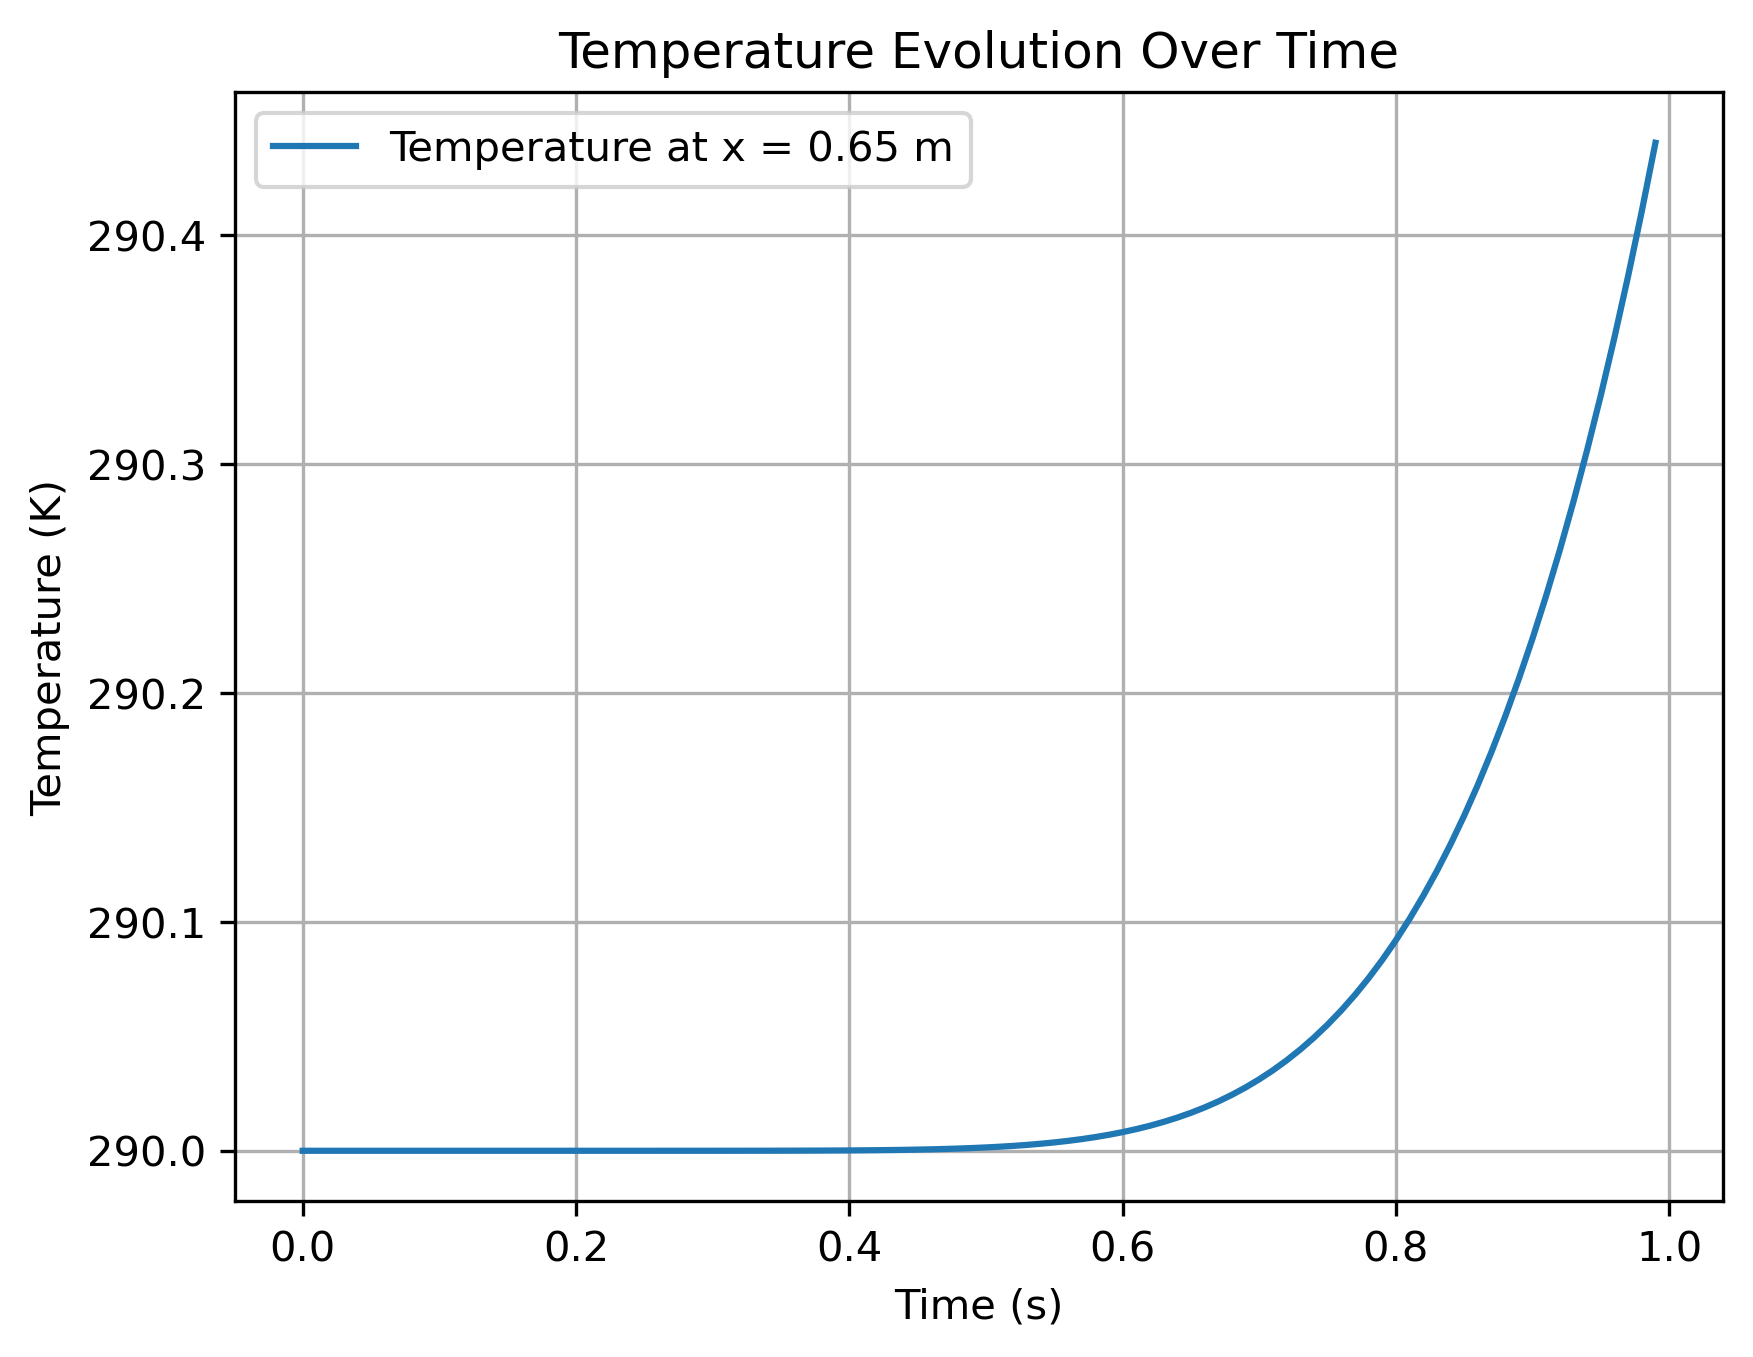
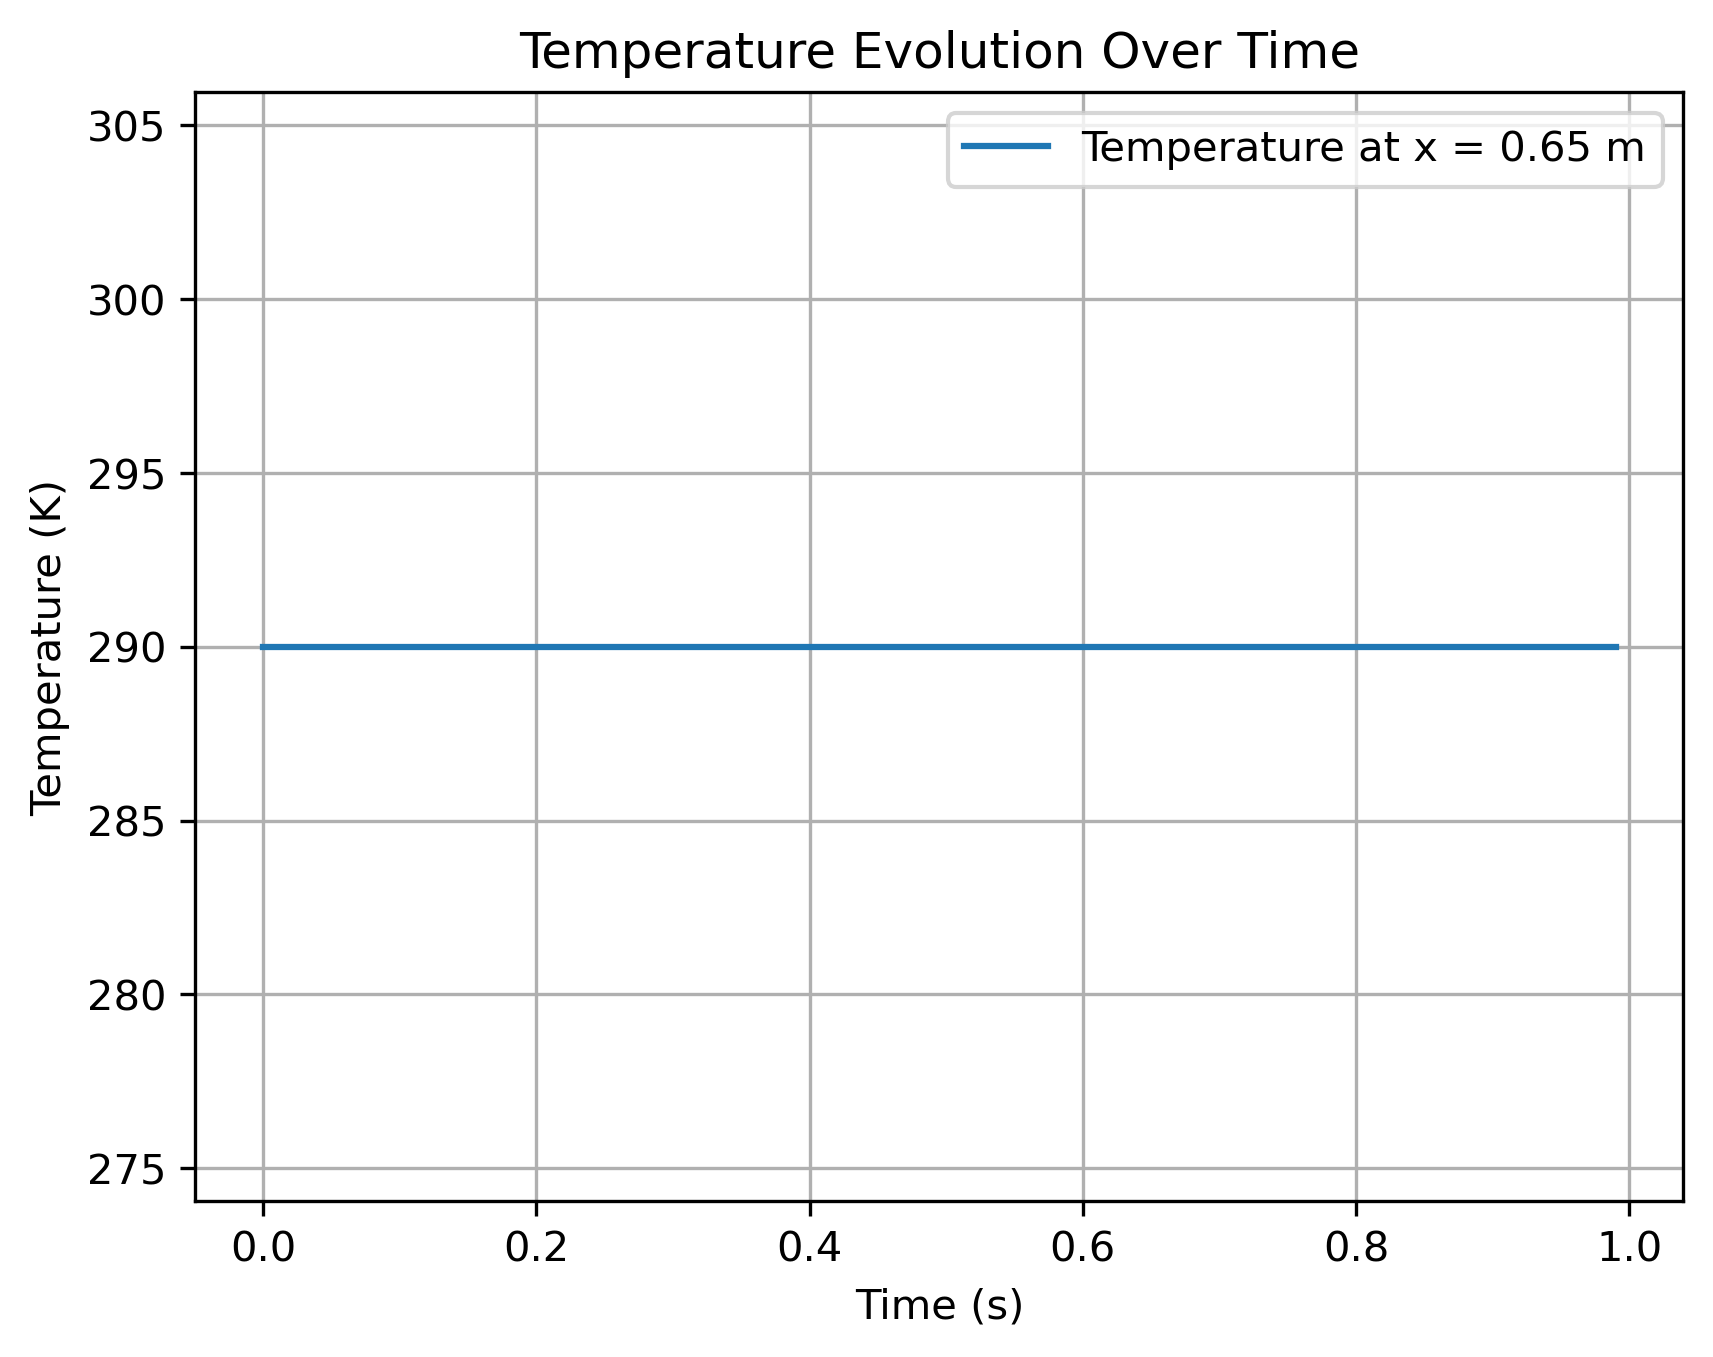
Cleanup, Celltypes work now

diff --git a/src/2d/main.py b/src/2d/main.py
@@ -21,10 +21,10 @@ logger = logging.getLogger(__name__)
 from mesh import generate_mesh_2d, generate_composite_mesh
 from params import get_all_params, get_param_group
 from utils import preview_mesh, preview_face_mask, save_animation, init_tripcolor_viewer
-# from k_eff import getKEff 
-# from sodium_properties import get_sodium_properties
-# from postprocess import save_results, plot_results
+from sodium_properties import get_sodium_properties
 
+from fipy import __version__ as fipy_version
+logger.info(f"Using FiPy version: {fipy_version}")
 
 # ----------------------------------------
 # Load parameters from configuration file
@@ -37,13 +37,44 @@ dimensions = get_param_group('dimensions')
 L_total = params['L_e'] + params['L_a'] + params['L_c']
 R_total = params['R_wall'] + params['R_wick'] + params['R_vc']
 
+logger.info("Parameters Loaded")
+
+# ----------------------------------------
+# Load sodium properties
+# ----------------------------------------
+
+sodium_properties = get_sodium_properties()
+
+logger.info("Sodium Properties Loaded")
+
+# ----------------------------------------
+# Define material properties
+# ----------------------------------------
+
+T_working = 800  # Example working temperature in Kelvin
+
+rho_vc = sodium_properties['density'](T_working)
+c_p_vc = sodium_properties['specific_heat'](T_working)
+k_vc = sodium_properties['thermal_conductivity'](T_working)
+
+rho_wick = params['porosity'] * rho_vc + (1 - params['porosity']) * params['rho_wall']
+c_p_wick = params['porosity'] * c_p_vc + (1 - params['porosity']) * params['c_p_wall']
+k_wick = params['porosity'] * k_vc + (1 - params['porosity']) * params['k_wall']
+
+rho_wall = params['rho_wall']
+c_p_wall = params['c_p_wall']
+k_wall = params['k_wall']
+
 # ----------------------------------------
 # Generate the 2D mesh
 # ----------------------------------------
 
-mesh, cell_types = generate_composite_mesh(mesh_params, dimensions)
+mesh, cell_types = generate_composite_mesh(mesh_params, dimensions) 
+# Cell types: 0 = vapor core, 1 = wick, 2 = wall
 
-# preview the mesh (optional)
+logger.info("Mesh Generated")
+logger.info(f"Mesh shape: {mesh.shape}")
+
 # preview_mesh(mesh, title="2D Mesh Preview")
 
 # ----------------------------------------
@@ -53,17 +84,27 @@ mesh, cell_types = generate_composite_mesh(mesh_params, dimensions)
 T = CellVariable(name="Temperature", mesh=mesh, value=params["T_amb"])
 
 # ----------------------------------------
-# Define the effective thermal conductivity variable (will do later, now use constant k)
+# Define the spatially varying D coefficient 
 # ----------------------------------------
-# k = params["k"] # Constant thermal conductivity for now
-# getKEff(T, params) returns a FiPy-compatible array (or CellVariable value)
-# k_eff = CellVariable(name="Effective Thermal Conductivity", mesh=mesh, value=getKEff(T, params))
+
+# Create region masks from the cell_types variable
+is_vc   = (cell_types == 0)  # Vapor core
+is_wick = (cell_types == 1)  # Wick
+is_wall = (cell_types == 2)  # Wall
+
+# Compute region-specific thermal diffusivity alpha = k / (rho * c_p)
+alpha_vc   = k_vc / (rho_vc * c_p_vc)
+alpha_wick = k_wick / (rho_wick * c_p_wick)
+alpha_wall = k_wall / (rho_wall * c_p_wall)
+
+# Construct the spatially varying coefficient D
+D = alpha_vc * is_vc + alpha_wick * is_wick + alpha_wall * is_wall
 
 # ----------------------------------------
 # Define the PDE
 # ----------------------------------------
 
-eq = TransientTerm() == DiffusionTerm(coeff=1e-3)
+eq = TransientTerm(var=T) == DiffusionTerm(coeff=D, var=T)
 
 # ----------------------------------------
 # Apply boundary conditions
@@ -73,27 +114,29 @@ X, Y = mesh.faceCenters
 faces_evaporator = (mesh.facesTop & (X < params['L_e']))
 faces_condenser = (mesh.facesTop & ((X > params['L_e'] + params['L_a']) & (X < L_total)))
 
-# Mask previewing (optional)
 # preview_face_mask(mesh, faces_evaporator, title="Evaporator Face Mask")
 # preview_face_mask(mesh, faces_condenser, title="Condenser Face Mask")
 
 n = mesh.faceNormals
-T.faceGrad.constrain(params['Q_input_flux']/params['k_wall'] * n, where=faces_evaporator)  # dT/dy = q_e/k_w (condenser heat input)
 
-T_rad = FaceVariable(mesh=mesh, value=T.faceValue)  # Radiative temperature at the faces
-q_rad = params['sigma'] * params['emissivity'] * (T_rad**4 - params['T_amb']**4)  # Radiative heat flux (W/m^2)
-T.faceGrad.constrain(-q_rad / params['k_wall'] * n, where=faces_condenser)  # dT/dy = -q_rad/k_w
+# dT/dy = q_e/k_w (condenser heat input)
+T.faceGrad.constrain(params['Q_input_flux']/params['k_wall'] * n, where=faces_evaporator)
+
+# dT/dy = -q_rad/k_w
+T_rad = FaceVariable(mesh=mesh, value=T.faceValue) # Radiative temperature at the faces
+q_rad = params['sigma'] * params['emissivity'] * (T_rad**4 - params['T_amb']**4) # Radiative heat flux (W/m^2)
+T.faceGrad.constrain(-q_rad / params['k_wall'] * n, where=faces_condenser)
 
 # ----------------------------------------
 # Initialize viewer
 # ----------------------------------------
 
 if __name__ == '__main__':
-    viewer = Viewer(vars=T)
-    viewer.plot()
+    # viewer = Viewer(vars=T)
+    # viewer.plot()
 
     # Matplotlib tripcolor viewer:
-    # fig, ax, tpc, triang = init_tripcolor_viewer(mesh)
+    fig, ax, tpc, triang = init_tripcolor_viewer(mesh)
 
 # ----------------------------------------
 # Time-stepping loop
@@ -124,16 +167,16 @@ for step in range(steps):
             try:
                 # Mayavi visualization:
                 
-                viewer.plot()
+                # viewer.plot()
                 
                 # Uncomment to save frames (Mayavi)
                 # viewer.plot(f"frames/frame_{step:04d}.png")
 
                 # Matplotlib.tripcolor visualization:
-                # tpc.set_array(T.value)
-                # tpc.set_clim(vmin=T.value.min(), vmax=T.value.max())
-                # ax.set_title(f"Step {step+1}, t = {step * time_step:.2f} s")
-                # plt.pause(0.003)  # Non-blocking draw
+                tpc.set_array(T.value)
+                tpc.set_clim(vmin=T.value.min(), vmax=T.value.max())
+                ax.set_title(f"Step {step+1}, t = {step * time_step:.2f} s")
+                plt.pause(0.003)  # Non-blocking draw
             except Exception as e:
                 logger.warning(f"Error during visualization: {e}")
     except Exception as e:
@@ -141,7 +184,7 @@ for step in range(steps):
         break
 
 # Matplotlib.tripcolor visualization:
-# plt.close(fig)
+plt.close(fig)
 
 # uncomment to save frames (Mayavi)
 # save_animation("frames", "output.mp4", fps=10)

diff --git a/src/2d/mesh.py b/src/2d/mesh.py
@@ -39,10 +39,32 @@ from fipy import CellVariable
 from fipy.meshes.nonUniformGrid2D import NonUniformGrid2D
 import numpy as np
 
-def generate_composite_mesh(mesh_params, dimensions):
+def generate_composite_mesh(mesh_params: dict, dimensions: dict) -> tuple[NonUniformGrid2D, CellVariable]:
     """
-    Generate a composite FiPy mesh for a cylindrical heat pipe
-    with variable radial resolution (vapor core, wick, wall).
+    Generate a composite FiPy mesh for a cylindrical heat pipe with variable radial resolution.
+    The mesh consists of three regions: vapor core (vc), wick, and wall, each with its own radial resolution.
+
+    Parameters:
+        mesh_params (dict): Dictionary containing mesh parameters:
+            - "nx_wall" (int): Number of cells in the axial (x) direction for the wall region.
+            - "nr_wall" (int): Number of cells in the radial (y) direction for the wall region.
+            - "nx_wick" (int): Number of cells in the axial (x) direction for the wick region.
+            - "nr_wick" (int): Number of cells in the radial (y) direction for the wick region.
+            - "nx_vc" (int): Number of cells in the axial (x) direction for the vapor core region.
+            - "nr_vc" (int): Number of cells in the radial (y) direction for the vapor core region.
+
+        dimensions (dict): Dictionary containing geometric dimensions (all in meters):
+            - "R_wall" (float): Outer radius of the wall region.
+            - "R_wick" (float): Outer radius of the wick region.
+            - "R_vc" (float): Outer radius of the vapor core region.
+            - "L_e" (float): Length of the evaporator section.
+            - "L_a" (float): Length of the adiabatic section.
+            - "L_c" (float): Length of the condenser section.
+
+    Returns:
+        tuple: A tuple containing:
+            - mesh (NonUniformGrid2D): A FiPy NonUniformGrid2D mesh representing the composite geometry.
+            - cell_var (CellVariable): A FiPy CellVariable indicating the cell types (0 for vapor core, 1 for wick, 2 for wall).
     """
     # Unpack parameters
     nx = mesh_params["nx_wall"]
@@ -86,17 +108,19 @@ def generate_composite_mesh(mesh_params, dimensions):
     # Create non-uniform grid
     mesh = NonUniformGrid2D(dx=dx_array, dy=dy_array, nx=nx, ny=sum(nr.values()))
 
-    # Assign cell types
-    ny = sum(nr.values())
+    # Assign cell types based on cell centers' spatial coordinates
     cell_types = np.zeros(mesh.numberOfCells, dtype=int)
-    split1 = nr["vc"]
-    split2 = split1 + nr["wick"]
-
-    for i in range(nx):
-        base = i * ny
-        cell_types[base + split1:base + split2] = 1  # wick
-        cell_types[base + split2:base + ny] = 2      # wall
-
+    x, y = mesh.cellCenters  # Get coordinates of cell centers
+    
+    # Use y-coordinate to determine region
+    vc_mask = (y <= R["vc"])
+    wick_mask = (y > R["vc"]) & (y <= R["wick"])
+    wall_mask = (y > R["wick"])
+    
+    # Assign cell types based on region
+    cell_types[wick_mask] = 1  # wick
+    cell_types[wall_mask] = 2  # wall
+    
     cell_var = CellVariable(name="Cell Types", mesh=mesh, value=cell_types)
 
     return mesh, cell_var
@@ -129,13 +153,9 @@ if __name__ == '__main__':
     print(" - Number of x cells:", mesh.numberOfCells // (mesh_params["nr_vc"] + mesh_params["nr_wick"] + mesh_params["nr_wall"]))
     print(" - Total number of cells:", mesh.numberOfCells)
 
-    # Visualize the mesh
+    # Visualize the mesh using the standard preview
     import matplotlib.pyplot as plt
-
-    # Extract the coordinates of the cell centers
     x, y = mesh.cellCenters
-
-    # Plot the mesh
     plt.figure(figsize=(10, 5))
     plt.scatter(x, y, marker='o', color='b', s=10)
     plt.title('2D Cartesian Mesh')
@@ -144,3 +164,7 @@ if __name__ == '__main__':
     plt.grid(True)
     plt.axis('equal')
     plt.show()
+    
+    # Visualize the different regions using the preview_cell_types function
+    from utils import preview_cell_types
+    preview_cell_types(mesh, cell_types, title="Heat Pipe Regions Visualization")

diff --git a/src/2d/utils.py b/src/2d/utils.py
@@ -69,11 +69,52 @@ def preview_face_mask(mesh, mask, title="Mesh with Face Masks"):
     plt.legend()
     plt.show()
 
+
+def preview_cell_types(mesh, cell_types, title="Heat Pipe Regions"):
+    """
+    Visualizes the different regions of a heat pipe based on cell types.
+
+    Parameters:
+        mesh: The FiPy mesh object.
+        cell_types: CellVariable containing region markers (0 for vapor core, 1 for wick, 2 for wall).
+        title (str): Title of the plot.
+    """
+    import matplotlib.pyplot as plt
+    import numpy as np
+    
+    # Extract cell centers
+    x, y = mesh.cellCenters
+    
+    # Get cell type values
+    values = cell_types.value
+    
+    # Create figure
+    plt.figure(figsize=(10, 5))
+    
+    # Create a scatter plot with different colors for each region
+    # Using a custom colormap appropriate for distinct regions
+    regions = ['Vapor Core', 'Wick', 'Wall']
+    colors = ['lightblue', 'orange', 'gray']
+    
+    # Plot each region separately for better control and legend
+    for i, (region, color) in enumerate(zip(regions, colors)):
+        mask = (values == i)
+        plt.scatter(x[mask], y[mask], marker='o', color=color, s=10, label=region)
+    
+    plt.title(title)
+    plt.xlabel('x [m]')
+    plt.ylabel('y [m]')
+    plt.grid(True)
+    plt.axis('equal')
+    plt.legend()
+    plt.show()
+
+
 def init_tripcolor_viewer(mesh):
     import matplotlib.pyplot as plt
     import matplotlib.tri as tri
     import numpy as np
-    
+
     x = mesh.cellCenters[0]
     y = mesh.cellCenters[1]
     triang = tri.Triangulation(x, y)

diff --git a/src/2d/sodium_properties.py b/src/2d/sodium_properties.py
@@ -169,7 +169,14 @@ def get_sodium_properties(state: str = 'vapor'):
         state: 'liquid' or 'vapor' to specify the state of sodium
         
     Returns:
-        Dictionary of interpolation functions for sodium properties
+        Dictionary of interpolation functions for sodium properties:
+        density - Density (kg/m³)
+        specific_heat - Specific heat (J/kg-K)
+        vapor_pressure - Vapor pressure (Pa)
+        viscosity - Dynamic viscosity (Pa-s)
+        heat_of_vaporization - Heat of vaporization (J/kg)
+        enthalpy - Enthalpy (J/kg)
+        thermal_conductivity - Thermal conductivity (W/m-K)
     """
     return {
         "density": get_density(state),

diff --git a/src/2d/params.py b/src/2d/params.py
@@ -30,7 +30,7 @@ def load_params(config_file=None):
     if config_file is None:
         config_file = os.path.join(
             os.path.dirname(os.path.dirname(os.path.dirname(__file__))),
-            'config', 'heat_pipe_config.json'
+            'config', 'faghri.json'
         )
     
     # Read the configuration file
@@ -83,7 +83,7 @@ def get_param_group(group_name):
         
     config_file = os.path.join(
         os.path.dirname(os.path.dirname(os.path.dirname(__file__))),
-        'config', 'heat_pipe_config.json'
+        'config', 'faghri.json'
     )
     
     try:
